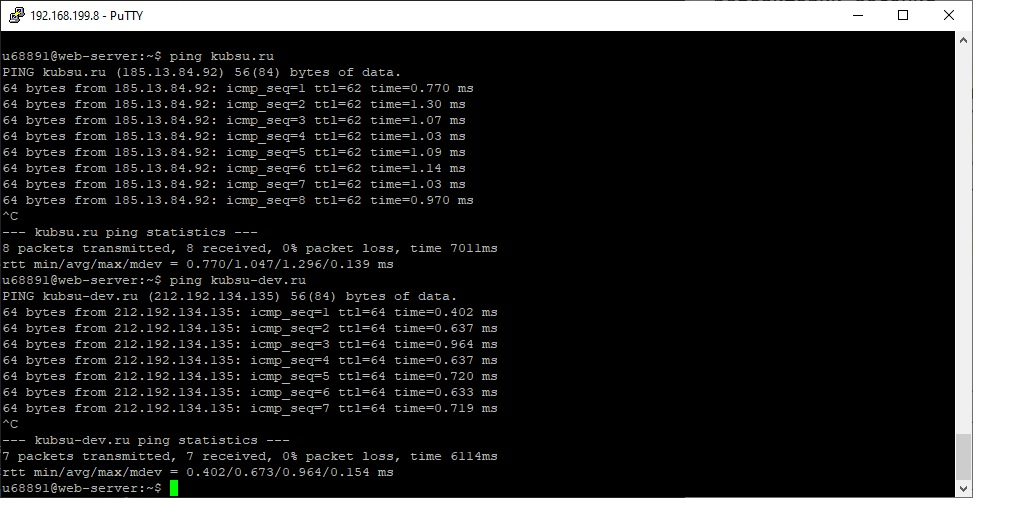
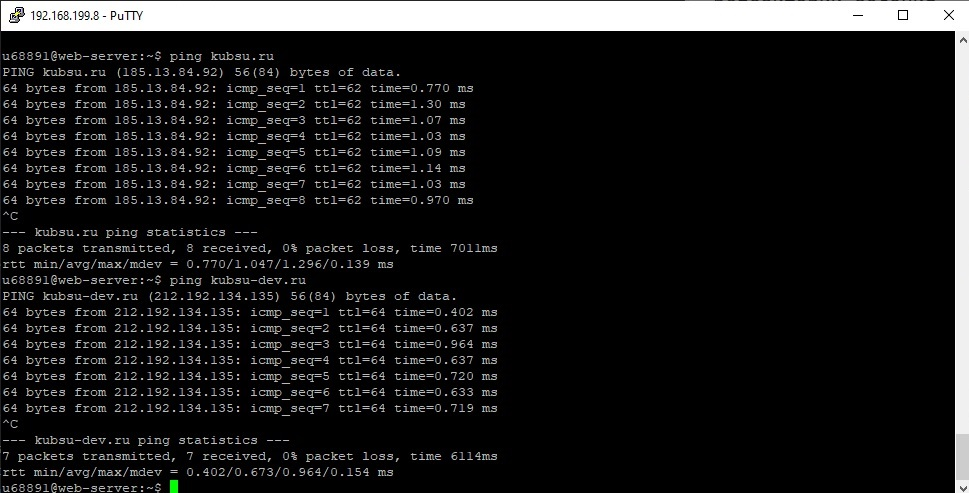
added screen with mx

Changed region(s): [[0.0, 0.0609, 1.0, 1.0], [0.0, 0.0, 0.1548, 0.0609], [0.8669, 0.0, 0.9907, 0.0609]]

diff --git a/backend ex.1/index.html b/backend ex.1/index.html
@@ -5,12 +5,22 @@
     <meta name="viewport" content="width=device-width, initial-scale=1.0">
     <title>Задание 1</title>
 </head>
+<style>
+    img {
+        width: 1000px;
+    }
+    p {
+        font-size: 16pt;
+    }
+</style>
+
 <body>
     <h1>Задание 1</h1>
  
     <p>1. Получить от преподавателя на практике логин и пароль доступа к учебному 
         серверу kubsu-dev.ru. Подключиться к нему по SSH с помощью клиента
         Putty, команды ssh или онлайн-версии ssh-клиента.</p>
+    <img src="img/1.jpg">
     <img src="img/2.jpg">
 
    
@@ -22,6 +32,7 @@
     <p>3. С помощью команды nslookup узнать A-записи и MX-записи домена kubsu.ru и
         kubsu-dev.ru</p>
     <img src="img/4.jpg">
+    <img src="img/4+.jpg">
 
     <p>4. С помощью команды whois узнать дату регистрации домена kubsu.ru и kubsu-dev.ru, добавить скриншоты в git-репозитарий задания.
     </p>
